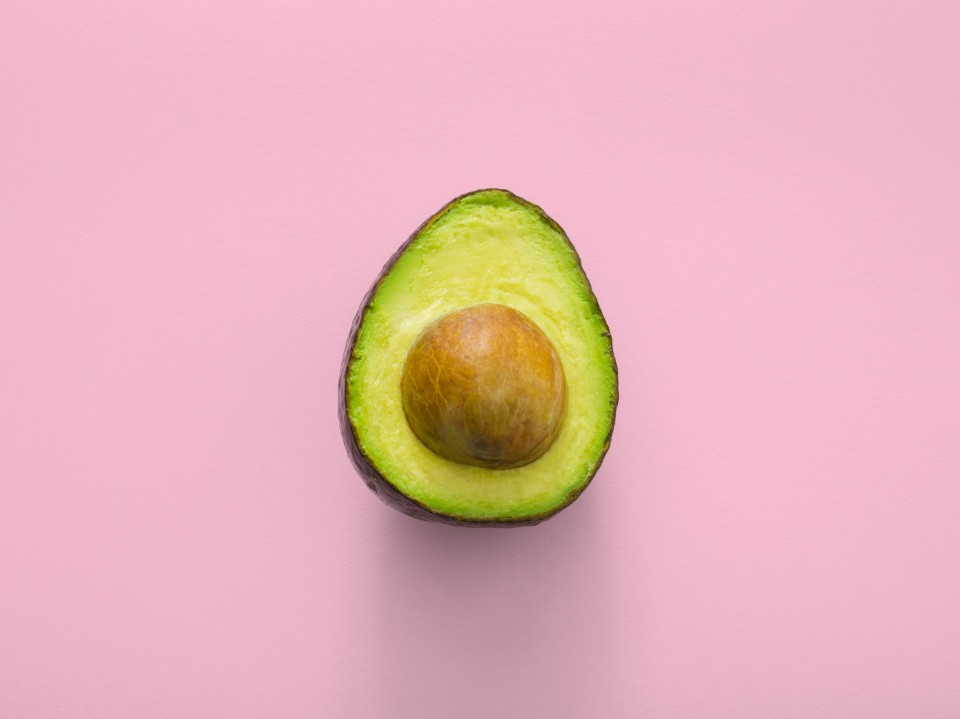
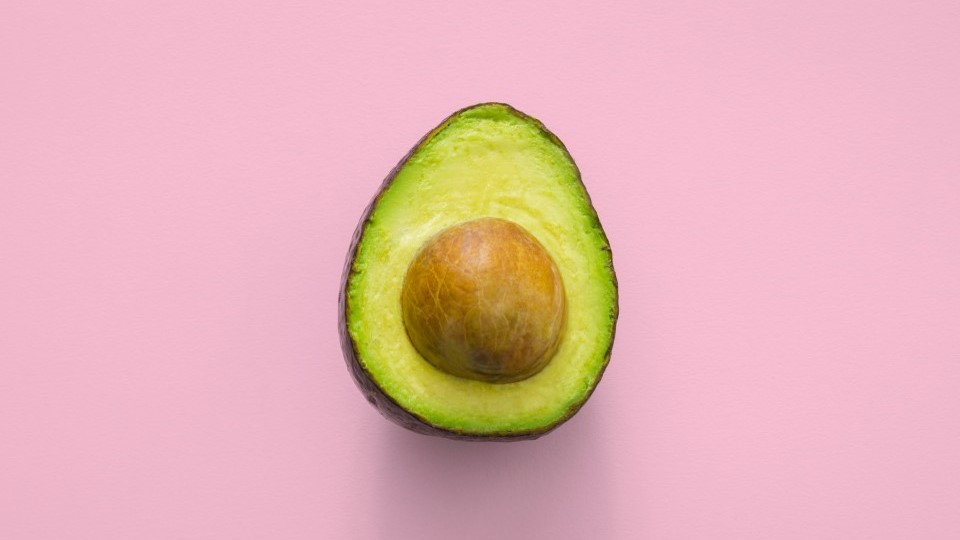
about page is all done - resized according to viewport - hero tab images got a minor resize as well, 960 x 540

Changed region(s): [[0.3438, 0.1778, 0.6562, 0.9481]]

diff --git a/src/styles/about-page.css b/src/styles/about-page.css
@@ -56,7 +56,6 @@
 .tab-info-image-wrapper{
     position: relative;
     width: 100%;
-    height: 52%;
     overflow: hidden;
     border-radius: 0px;
 }   
@@ -69,9 +68,6 @@
     width: inherit;
     position: relative;
 
-}
-#tab-info-food {
-    bottom: 30px;
 }
 
 
@@ -98,4 +94,27 @@
         border-radius: 0%;
     }
 
+}
+
+@media only screen and (max-width: 830px) {
+    .about-me-container {
+        grid-column: 1/13;
+    }
+    .mission-statement-container { 
+        grid-column: 1/13;
+    }
+    .tab-info-container {
+        grid-column: 1/13;
+        flex-direction: column;
+    }
+}
+
+@media only screen and (max-width: 630px) {
+    .about-me-container {
+      flex-direction: column-reverse;
+    }
+    .mission-statement-container{
+        padding-block: 20%;
+        padding-inline: 4%;
+    }
 }

diff --git a/src/components/Nav.js b/src/components/Nav.js
@@ -34,7 +34,7 @@ const Nav = (props) => {
                 <NavLink className = 'navLink' to = '/Archive/Hobby' onClick = {() => props.tabSection('Hobby')}>
                     Hobbies 
                         </NavLink>
-                <NavLink className = 'navLink' to = '/Archive/Food' onClick = {() => props.tabSection('Fo00000od')} >
+                <NavLink className = 'navLink' to = '/Archive/Food' onClick = {() => props.tabSection('Food')} >
                     Food 
                         </NavLink>
                 {/* <NavLink className = 'navLink' to = '/Comunity'> 

diff --git a/src/styles/home-page.css b/src/styles/home-page.css
@@ -493,6 +493,9 @@
     .card-summary{
         display: none ;
     }
+    .set-up-section > img  {
+        width: 100%;
+    }
     
     
 }
@@ -516,7 +519,7 @@
     /* mobile view card layout */
         .card-article {
             flex-direction: column;
-            border-radius: 0 0 0 0 ;
+            border-radius: 0px ;
             
         }
         .card-description {

diff --git a/src/styles/nav-component.css b/src/styles/nav-component.css
@@ -10,7 +10,8 @@
 
 }
 .openbtn{
-width: 1rem;
+    display: none;
+    width: 1rem;
 }
 .logo {
     font-family: 'Playfair Display', serif;
@@ -105,6 +106,7 @@ width: 1rem;
       }
 
     .openbtn {
+        display: block;
         grid-column: 1/2;
         width: 100%;
         cursor: pointer;

diff --git a/src/styles/article-page.css b/src/styles/article-page.css
@@ -130,4 +130,7 @@
         font-size: .85rem;
         padding: 0%;
     }
+    .article-image-wrapper > img {
+        border-radius: 0px;
+    }
 }
